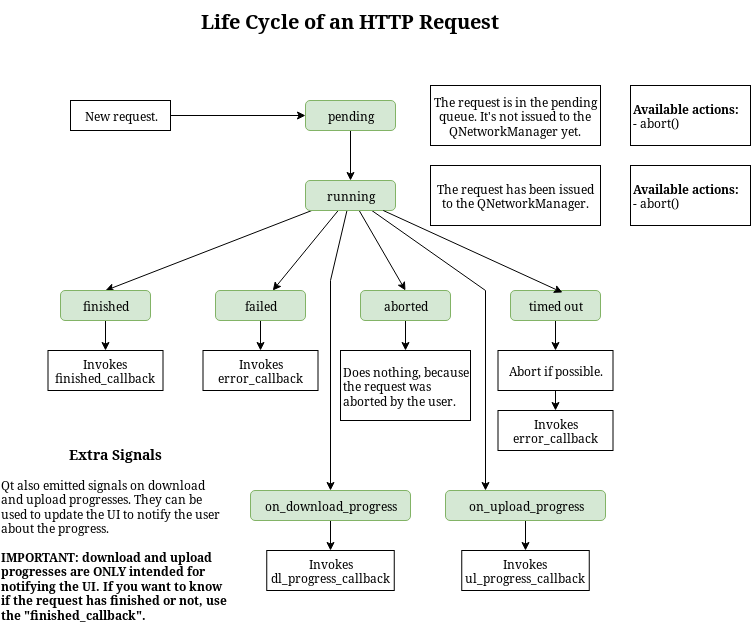
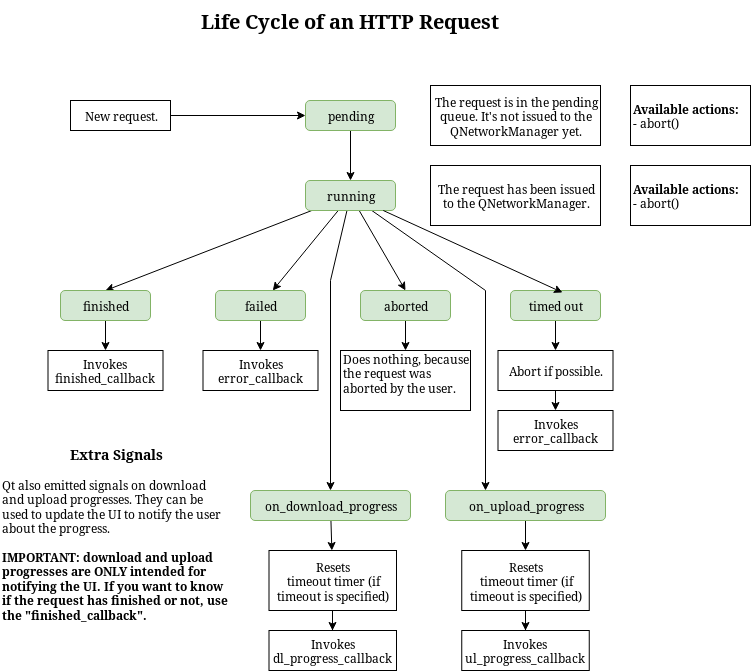
Reimplement HTTP request timeout handling
CURA-6387

diff --git a/UM/TaskManagement/HttpRequestManager.py b/UM/TaskManagement/HttpRequestManager.py
@@ -1,5 +1,5 @@
-# Copyright (c) 2019 Ultimaker B.V.
-# Cura is released under the terms of the LGPLv3 or higher.
+# Copyright (c) 2020 Ultimaker B.V.
+# Uranium is released under the terms of the LGPLv3 or higher.
 
 from collections import deque
 from threading import RLock
@@ -12,8 +12,37 @@ from PyQt5.QtNetwork import QNetworkAccessManager, QNetworkRequest, QNetworkRepl
 
 from UM.Logger import Logger
 
+from .TaskManager import TaskManager
+
 
 __all__ = ["HttpRequestData", "HttpRequestManager"]
+
+#
+# Summary:
+#
+# HttpRequestManager is a wrapper for Qt's QNetworkAccessManager and make it more convenient to do the following things:
+#  (1) Keep track of the HTTP requests one has issued. This is done via the HttpRequestData object. Each HttpRequestData
+#      object represents an issued HTTP request.
+#  (2) A request can be aborted if it hasn't been issued to QNetworkAccessManager or if it's still running by
+#      QNetworkAccessManager.
+#  (3) Updates on each request is done via user-specified callback functions. So, for each request, you can give
+#      optional callbacks:
+#       - A successful callback, invoked when the request has been finished successfully.
+#       - An error callback, invoked when an error has occurred, including when a request was aborted by the user or
+#         timed out.
+#       - A download progress callback, invoked when there's an update on the download progress.
+#       - An upload progress callback, invoked when there's an update on the upload progress.
+#  (4) An optional timeout can be specified for an HTTP request. Note that this timeout is the max wait time between
+#      each time the request gets a response from the server. This is handled via the download and upload progress
+#      callbacks. A QTimer is used for each request to track its timeout if set. If the timer gets triggered and there
+#      is indeed a timeout, the request will be aborted. All requests that are aborted due to a timeout will result in
+#      invoking its error callback with an error code QNetworkReply::OperationCanceledError, but the HttpRequestData
+#      will have its "is_aborted_due_to_timeout" property set to True.
+#     Because of
+#
+# All requests are handled by QNetworkAccessManager. We consider that all the requests that are being handled by
+# QNetworkAccessManager at a certain point are running concurrently.
+#
 
 
 #
@@ -29,7 +58,14 @@ __all__ = ["HttpRequestData", "HttpRequestManager"]
 #  - timeout (optional): The timeout in seconds for this request. Must be a positive number if present.
 #  - reply: The QNetworkReply for this request. It will only present after this request gets processed.
 #
-class HttpRequestData:
+class HttpRequestData(QObject):
+
+    # Add some tolerance for scheduling the QTimer to check for timeouts, because the QTimer may trigger the event a
+    # little earlier. For example, with a 5000ms interval, the timer event can be triggered after 4752ms, so a request
+    # may never timeout if we don't add some tolerance.
+    # 4752ms (actual) and 5000ms (expected) has about 6% difference, so here I use 15% to be safer.
+    TIMEOUT_CHECK_TOLERANCE = 0.15
+
     def __init__(self, request_id: str,
                  http_method: str, request: "QNetworkRequest",
                  data: Optional[Union[bytes, bytearray]] = None,
@@ -38,7 +74,15 @@ class HttpRequestData:
                  download_progress_callback: Optional[Callable[[int, int], None]] = None,
                  upload_progress_callback: Optional[Callable[[int, int], None]] = None,
                  timeout: Optional[float] = None,
-                 reply: Optional["QNetworkReply"] = None) -> None:
+                 reply: Optional["QNetworkReply"] = None,
+                 manager_timeout_callback: Optional[Callable[["HttpRequestData"], None]] = None,
+                 parent: Optional["QObject"] = None) -> None:
+        super().__init__(parent = parent)
+
+        # Sanity checks
+        if timeout is not None and timeout <= 0:
+            raise ValueError("Timeout must be a positive value, but got [%s] instead." % timeout)
+
         self._request_id = request_id
         self.http_method = http_method.lower()
         self.request = request
@@ -53,8 +97,19 @@ class HttpRequestData:
         # The timestamp when this request was initially issued to the QNetworkManager. This field to used to track and
         # manage timeouts (if set) for the requests.
         self._start_time = None  # type: Optional[float]
-        self._timeout_time = None  # type: Optional[float]  # For convenience, = start_time + timeout
         self.is_aborted_due_to_timeout = False
+
+        self._last_response_time = 0
+        self._timeout_timer = None  # type: Optional[QTimer]
+        if self._timeout is not None:
+            self._timeout_timer = QTimer(parent = self)
+            self._timeout_timer.setSingleShot(True)
+
+            timeout_check_interval = self._timeout * 1000 * (1 + self.TIMEOUT_CHECK_TOLERANCE)
+            self._timeout_timer.setInterval(timeout_check_interval)
+            self._timeout_timer.timeout.connect(self._onTimeoutTimerTriggered)
+
+        self._manager_timeout_callback = manager_timeout_callback
 
     @property
     def request_id(self) -> str:
@@ -64,47 +119,60 @@ class HttpRequestData:
     def timeout(self) -> Optional[float]:
         return self._timeout
 
-    @property
-    def timeout_time(self) -> Optional[float]:
-        return self._timeout_time
-
     # Sets the start time of this request. This is called when this request is issued to the QNetworkManager.
     def setStartTime(self, start_time: float) -> None:
         self._start_time = start_time
+
+        # Prepare timeout handling
         if self._timeout is not None:
-            self._timeout_time = self._start_time + self._timeout
+            self._last_response_time = start_time
+            self._timeout_timer.start()
+            Logger.log("d", "Request [%s] timeout timer started.", self)
 
-    # Checks with the given timestamp (in seconds) to see if this request has exceeded its timeout.
-    # If no timeout is specified for this request, this check will return False.
-    def hasExceededTimeout(self, now: float) -> bool:
-        if self._timeout_time is None:
-            return False
-        return now > self._timeout_time
-
-    def getTimeToTimeout(self, now: float) -> Optional[float]:
-        if self._timeout_time is None:
-            return None
-        return self._timeout_time - now
+    # Do some cleanup, such as stopping the timeout timer.
+    def setDone(self) -> None:
+        if self._timeout_timer is not None:
+            self._timeout_timer.stop()
+            self._timeout_timer.timeout.disconnect(self._onTimeoutTimerTriggered)
 
     # Since Qt 5.12, pyqtSignal().connect() will return a Connection instance that represents a connection. This
     # Connection instance can later be used to disconnect for cleanup purpose. We are using Qt 5.10 and this feature
     # is not available yet, and I'm not sure if disconnecting a lambda can potentially cause issues. For this reason,
     # I'm using the following facade callback functions to handle the lambda function cases.
-    def onCallback(self, reply: "QNetworkReply") -> None:
-        if self.callback is not None:
-            self.callback(reply)
-
-    def onErrorCallback(self, reply: "QNetworkReply", error: "QNetworkReply.NetworkError") -> None:
-        if self.error_callback is not None:
-            self.error_callback(reply, error)
 
     def onDownloadProgressCallback(self, bytes_received: int, bytes_total: int) -> None:
+        # Update info for timeout handling
+        if self._timeout is not None:
+            now = time.time()
+            time_last = now - self._last_response_time
+            Logger.log("d", "Request [%s] download progress time last: [%s]", self, time_last)
+            self._last_response_time = time.time()
+            # We've got a response, restart the timeout timer
+            self._timeout_timer.start()
+
         if self.download_progress_callback is not None:
             self.download_progress_callback(bytes_received, bytes_total)
 
     def onUploadProgressCallback(self, bytes_sent: int, bytes_total: int) -> None:
+        # Update info for timeout handling
+        if self._timeout is not None:
+            now = time.time()
+            time_last = now - self._last_response_time
+            Logger.log("d", "Request [%s] upload progress, time last: [%s]", self, time_last)
+            self._last_response_time = time.time()
+            # We've got a response, restart the timeout timer
+            self._timeout_timer.start()
+
         if self.upload_progress_callback is not None:
             self.upload_progress_callback(bytes_sent, bytes_total)
+
+    def _onTimeoutTimerTriggered(self) -> None:
+        now = time.time()
+        time_last = now - self._last_response_time
+        if self.reply.isRunning() and time_last >= self._timeout:
+            self._manager_timeout_callback(self)
+        else:
+            self._timeout_timer.start()
 
     def __str__(self) -> str:
         data = "no-data"
@@ -146,12 +214,14 @@ class HttpRequestData:
 #       download a 1MB file, and for this request you set a timeout of 10 minutes, the request will be aborted after
 #       10 minutes if it's not finished.
 #
-class HttpRequestManager(QObject):
+class HttpRequestManager(TaskManager):
 
     __instance = None  # type: Optional[HttpRequestManager]
 
     @classmethod
     def getInstance(cls, *args, **kwargs) -> Optional["HttpRequestManager"]:
+        if cls.__instance is None:
+            cls.__instance = cls()
         return cls.__instance
 
     def __init__(self, max_concurrent_requests: int = 10, parent: Optional["QObject"] = None) -> None:
@@ -160,9 +230,6 @@ class HttpRequestManager(QObject):
         HttpRequestManager.__instance = self
 
         super().__init__(parent)
-
-        from cura.CuraApplication import CuraApplication
-        self._application = CuraApplication.getInstance()
 
         self._network_manager = QNetworkAccessManager(self)
 
@@ -177,11 +244,6 @@ class HttpRequestManager(QObject):
         self._requests_in_progress = set()  # type: Set[HttpRequestData]
         self._request_lock = RLock()
         self._process_requests_scheduled = False
-
-        # Timer for managing timeouts.
-        self._timeout_timer = QTimer(parent = self)
-        self._timeout_timer.setSingleShot(True)
-        self._timeout_timer.timeout.connect(self._triggerTimeoutCheck)
 
     # Public API for creating an HTTP GET request.
     # Returns an HttpRequestData instance that represents this request.
@@ -255,7 +317,7 @@ class HttpRequestManager(QObject):
                        download_progress_callback: Optional[Callable[[int, int], None]] = None,
                        upload_progress_callback: Optional[Callable[[int, int], None]] = None,
                        timeout: Optional[float] = None) -> "HttpRequestData":
-        assert(timeout is None or timeout > 0)
+        # Sanity checks
         if timeout is not None and timeout <= 0:
             raise ValueError("Timeout must be a positive number if provided, but [%s] was given" % timeout)
 
@@ -286,7 +348,8 @@ class HttpRequestManager(QObject):
                                        error_callback = error_callback,
                                        download_progress_callback = download_progress_callback,
                                        upload_progress_callback = upload_progress_callback,
-                                       timeout = timeout)
+                                       timeout = timeout,
+                                       manager_timeout_callback = self._onRequestTimeout)
 
         with self._request_lock:
             Logger.log("d", "%s has been queued", request_data)
@@ -294,51 +357,21 @@ class HttpRequestManager(QObject):
 
             # Schedule a call to process pending requests in the queue
             if not self._process_requests_scheduled:
-                self._application.callLater(self._processNextRequestsInQueue)
+                self.callLater(0, self._processNextRequestsInQueue)
                 self._process_requests_scheduled = True
                 Logger.log("d", "process requests call has been scheduled")
 
         return request_data
 
     # For easier debugging, so you know when the call is triggered by the timeout timer.
-    def _triggerTimeoutCheck(self) -> None:
-        Logger.log("d", "Timeout checkpoint triggered.")
-        self._checkRequetsForTimeouts()
-
-    def _checkRequetsForTimeouts(self) -> None:
-        has_timeout_timer_rescheduled = False
+    def _onRequestTimeout(self, request_data: "HttpRequestData") -> None:
+        Logger.log("d", "Request [%s] timeout.", self)
         with self._request_lock:
-            now = time.time()
-            # Sort all currently in progress requests by their remaining times to timeout.
-            #  - Abort the requests that have exceeded the timeout limit.
-            #  - Schedule the timeout Timer to the next most recent timeout as a checkpoint.
-            requests_with_timeout = filter(lambda r: r.timeout is not None, self._requests_in_progress)
-            sorted_requests = sorted(requests_with_timeout, key = lambda r: r.getTimeToTimeout(now))
-            for request in sorted_requests:
-                if request.hasExceededTimeout(now):
-                    # Abort the requests that have exceeded the timeout limit.
-                    if request.reply is not None and request.reply.isRunning():
-                        request.reply.abort()
-                        request.is_aborted_due_to_timeout = True
-                        Logger.log("d", "%s aborted due to timeout [%s sec]", request, request.timeout)
-                else:
-                    # Schedule the timeout Timer to the next most recent timeout as a checkpoint.
-                    seconds_to_timeout = request.getTimeToTimeout(now)
-                    if seconds_to_timeout is not None:  # Make type checking happy
-                        next_check_time = seconds_to_timeout + 0.5  # add a little margin
-                        self._timeout_timer.stop()
-                        self._timeout_timer.setInterval(next_check_time * 1000)
-                        self._timeout_timer.start()
-                        has_timeout_timer_rescheduled = True
-                        Logger.log("d", "Timeout timer scheduled in [%s] sec for request", request)
-                        break
+            if request_data not in self._requests_in_progress:
+                return
 
-        if not has_timeout_timer_rescheduled:
-            self._timeout_timer.stop()
-
-        Logger.log("d", "Timeout check done.")
-        # We don't need to reschedule _processRequest() because abort() will trigger finished() which will
-        # eventually try to schedule _processRequest().
+            request_data.reply.abort()
+            request_data.is_aborted_due_to_timeout = True
 
     # Processes the next requests in the pending queue. This function will issue as many requests to the QNetworkManager
     # as possible but limited by the value "_max_concurrent_requests". It stops if there is no more pending requests.
@@ -380,53 +413,55 @@ class HttpRequestManager(QObject):
         # connect callback signals
         reply.error.connect(lambda err, rd = request_data: self._onRequestError(rd, err), type = Qt.QueuedConnection)
         reply.finished.connect(lambda rd = request_data: self._onRequestFinished(rd), type = Qt.QueuedConnection)
-        if request_data.download_progress_callback is not None:
+
+        # Only connect download/upload progress callbacks when necessary to reduce CPU usage.
+        if request_data.download_progress_callback is not None or request_data.timeout is not None:
             reply.downloadProgress.connect(request_data.onDownloadProgressCallback, type = Qt.QueuedConnection)
-        if request_data.upload_progress_callback is not None:
+        if request_data.upload_progress_callback is not None or request_data.timeout is not None:
             reply.uploadProgress.connect(request_data.onUploadProgressCallback, type = Qt.QueuedConnection)
 
         with self._request_lock:
             self._requests_in_progress.add(request_data)
             request_data.setStartTime(now)
-            self._checkRequetsForTimeouts()
 
     def _onRequestError(self, request_data: "HttpRequestData", error: "QNetworkReply.NetworkError") -> None:
         error_string = None
         if request_data.reply is not None:
             error_string = request_data.reply.errorString()
         Logger.log("d", "%s got an error %s, %s", request_data, error, error_string)
+
         with self._request_lock:
             # safeguard: make sure that we have the reply in the currently in-progress requests set
             if request_data not in self._requests_in_progress:
                 # TODO: ERROR, should not happen
                 Logger.log("e", "%s not found in the in-progress set", request_data)
                 pass
+            else:
+                # disconnect callback signals
+                if request_data.reply is not None:
+                    if request_data.download_progress_callback is not None:
+                        request_data.reply.downloadProgress.disconnect(request_data.onDownloadProgressCallback)
+                    if request_data.upload_progress_callback is not None:
+                        request_data.reply.uploadProgress.disconnect(request_data.onUploadProgressCallback)
 
-            # disconnect callback signals
-            if request_data.reply is not None:
-                if request_data.download_progress_callback is not None:
-                    request_data.reply.downloadProgress.disconnect(request_data.onDownloadProgressCallback)
-                if request_data.upload_progress_callback is not None:
-                    request_data.reply.uploadProgress.disconnect(request_data.onUploadProgressCallback)
-
-            self._requests_in_progress.remove(request_data)
+                    request_data.setDone()
+                    self._requests_in_progress.remove(request_data)
 
         # schedule the error callback if there is one
         if request_data.error_callback is not None:
             Logger.log("d", "%s error callback scheduled", request_data)
-            self._application.callLater(request_data.error_callback, request_data.reply, error)
+            self.callLater(0, request_data.error_callback, request_data.reply, error)
 
         # continue to process the next request
         self._processNextRequestsInQueue()
-        self._checkRequetsForTimeouts()  # TODO: optimize this
 
     def _onRequestFinished(self, request_data: "HttpRequestData") -> None:
         # See https://doc.qt.io/archives/qt-5.10/qnetworkreply.html#abort
         # Calling QNetworkReply.abort() will also trigger finished(), so we need to know if a request was finished or
-        # aborted. This can be done by checking if the error is QNetworkReply.OperationCanceledError.
+        # aborted. This can be done by checking if the error is QNetworkReply.OperationCanceledError. If a request was
+        # aborted due to timeout, the request's HttpRequestData.is_aborted_due_to_timeout will be set to True.
         #
-        #  - Do nothing if the request was aborted by the user.
-        #  - Call the timeout callback if the request was aborted due to timeout.
+        # We do nothing if the request was aborted because an error callback will also be triggered by Qt.
         if request_data.reply is not None and request_data.reply.error() == QNetworkReply.OperationCanceledError:
             Logger.log("d", "%s was aborted, do nothing", request_data)
             return
@@ -446,13 +481,13 @@ class HttpRequestManager(QObject):
                     if request_data.upload_progress_callback is not None:
                         request_data.reply.uploadProgress.disconnect(request_data.onUploadProgressCallback)
 
+                request_data.setDone()
                 self._requests_in_progress.remove(request_data)
 
         # schedule the callback if there is one
         if request_data.callback is not None:
             Logger.log("d", "%s callback scheduled", request_data)
-            self._application.callLater(request_data.callback, request_data.reply)
+            self.callLater(0, request_data.callback, request_data.reply)
 
         # continue to process the next request
         self._processNextRequestsInQueue()
-        self._checkRequetsForTimeouts()  # TODO: optimize this
